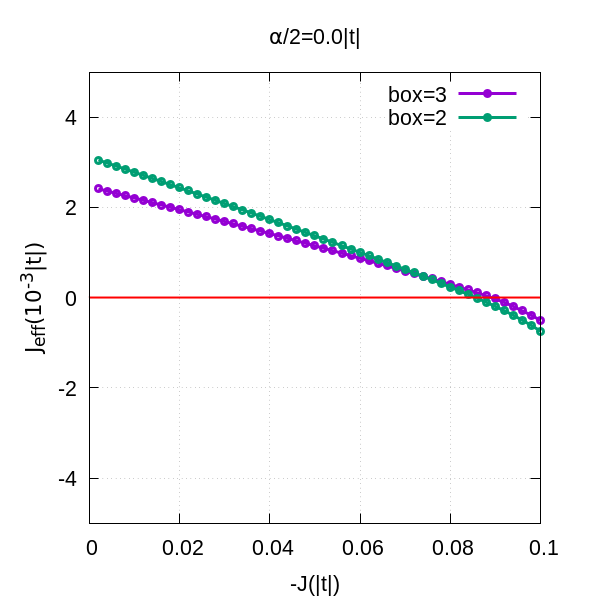
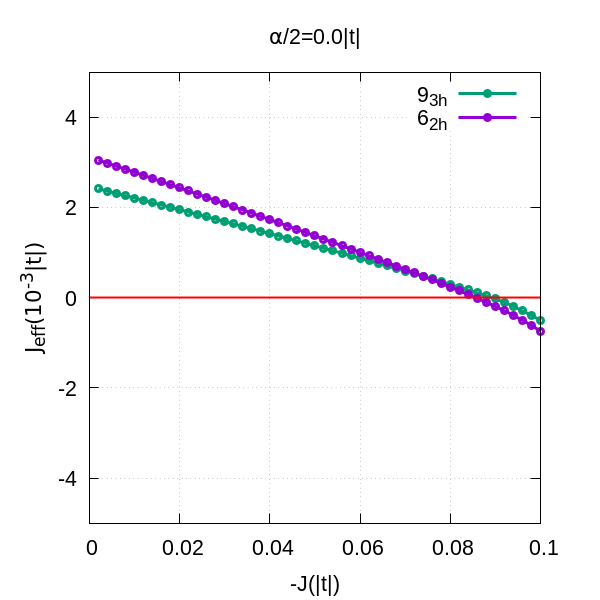
Changes from papeeria

Changed region(s): [[0.15, 0.24, 0.9, 0.57], [0.63, 0.15, 0.75, 0.24], [0.78, 0.15, 0.87, 0.21]]

diff --git a/rapport.tex b/rapport.tex
@@ -142,6 +142,7 @@
 		\thispagestyle{empty}
 	\chapter*{Introduction}
 	\setcounter{page}{1}
+	\setlength{\parskip}{-1mm}
 	\addcontentsline{toc}{chapter}{Introduction}
 	
 	Colossal magnetoresistance (CMR) is the prperty of some materials to change their
@@ -258,7 +259,7 @@
 	
 	\begin{figure}[ht]
 		\centering
-			\includegraphics[scale=0.25]{DE.png}
+			\includegraphics[scale=0.2]{DE.png}
 		\caption{\label{fig:deham} Representation of a model system showing the interatction terms used in double exchange hamiltonian. }
 	\end{figure}
 	These Hamiltonians describe a model with two valence orbitals on each
@@ -387,7 +388,7 @@
 	\section{Model space}
 	\begin{figure}[ht]
 		\centering
-			\includegraphics[scale=0.25]{boites.png}
+			\includegraphics[scale=0.2]{boites.png}
 		\caption{\label{boites}. Representation of the local ferromagnetic polarons formed by spins aligned by a single hole for 6$_{2h}$.}
 	\end{figure}
 	As discussed above, a hole aligns about three sites. That allows one to
@@ -605,11 +606,11 @@
 		\centering
 		\hspace{-2cm}
 		\begin{minipage}{0.4\textwidth}
-			\includegraphics[scale=0.35]{W_vs_J_sites_2-xrep-0.png}
+			\includegraphics[scale=0.3]{W_vs_J_sites_2-xrep-0.png}
 		\end{minipage}
 		\hspace{2cm}
 		\begin{minipage}{0.4\textwidth}
-			\includegraphics[scale=0.35]{W_vs_J_sites_3-xrep-0.png}
+			\includegraphics[scale=0.3]{W_vs_J_sites_3-xrep-0.png}
 		\end{minipage}
 		\caption{\label{fig_w69} Weight (W) as a function of $J$ for 6$_{2h}$ (left) and 9$_{3h}$ (right). }
 	\end{figure}
@@ -623,13 +624,18 @@
 	normalization of the wavefunction, the absolute weight of the model space
 	decreases. In other words, the ratio of the size of the model space vs the
 	total size of the Hilbert space goes to zero with increasing number of sites.
+	
+	\begin{figure}[h!]
+		\centering
+			\includegraphics[scale=0.22]{determinants.jpg}
+		\caption{\label{determinants}. Representation of the determinants with maximal weight on the ground state for three different values of $J$ in 6$_{2h}$.}
+	\end{figure}
 	 
 	 Initially, the weight increases with increasing magnitude of $J$ this is
 	 because for a small value of $J$ the system is completely governed by $t$
 	 which will favor the ionic determinants. Howeveer, after a maximum, the
 	 weight falls drastically as larger values of $J$ favors the
-	 antiferromagnetic couplings inside the boxes and hense the component due to spin $S=5 \slash 2$ decreases.
-	
+	 antiferromagnetic couplings inside the boxes and hense the component due to spin $S=5 \slash 2$ decreases. In order to ilustrated this figures \ref{determinants} shows the determinants with maximal weight on the ground state for three different values of $J$, in a) for $J=0.01|t|$, a very small values, the ground state is $S=5$ and the determinant having the maximal weight is all the electrons aligned and the hole in the middle of each box, as the Hückel wavefunction predicts. Then in b) for $J=0.1|t|$, an intermediate value, even if inside the boxes ferromagnetic coupling is favored the coupling between them is antiferromagnetic and the ground state is $S=0$. Finally, in c) when $J=0.2|t|$, a large value, there is no longer ferromagnetic coupling between the boxes.	
 	
 	\subsection{Variation with Repulsion}
 
@@ -637,11 +643,11 @@
 		\centering
 		\hspace{-2cm}
 		\begin{minipage}{0.4\textwidth}
-			\includegraphics[scale=0.35]{W_vs_J_sites_2-xrep-01.png}
+			\includegraphics[scale=0.3]{W_vs_J_sites_2-xrep-01.png}
 		\end{minipage}
 		\hspace{2cm}
 		\begin{minipage}{0.4\textwidth}
-			\includegraphics[scale=0.35]{W_vs_J_sites_2-xrep-225.png}
+			\includegraphics[scale=0.3]{W_vs_J_sites_2-xrep-225.png}
 		\end{minipage}
 		\caption{\label{fig_0_225} Weight (W) as a function of $J$ for $\alpha = 0 |t|$ (left) and $\alpha \slash 2 = 2.25|t|$ (right). }
 	\end{figure}
@@ -679,11 +685,11 @@
 		\centering
 		\hspace{-2cm}
 		\begin{minipage}{0.4\textwidth}
-			\includegraphics[scale=0.35]{Wmax_vs_xrep0v1.png}
+			\includegraphics[scale=0.3]{Wmax_vs_xrep0v1.png}
 		\end{minipage}
 		\hspace{2cm}
 		\begin{minipage}{0.4\textwidth}
-			\includegraphics[scale=0.35]{Wmax_vs_xrep0vn.png}
+			\includegraphics[scale=0.3]{Wmax_vs_xrep0vn.png}
 		\end{minipage}
 		\caption{\label{fig_v1n} Maximal weight (W$_{max}$) for each state as a function of repulsion calculated with two models: only considering repulsion between consecutive holes (left) and considering repulsion between all the holes as function of distance (right). }
 	\end{figure}
@@ -693,11 +699,11 @@
 		\centering
 		\hspace{-2cm}
 		\begin{minipage}{0.4\textwidth}
-			\includegraphics[scale=0.35]{J_vs_xrepv1.png}
+			\includegraphics[scale=0.3]{J_vs_xrepv1.png}
 		\end{minipage}
 		\hspace{2cm}
 		\begin{minipage}{0.4\textwidth}
-			\includegraphics[scale=0.35]{J_vs_xrepvn.png}
+			\includegraphics[scale=0.3]{J_vs_xrepvn.png}
 		\end{minipage}
 		\caption{\label{fig_jv1n} Value of $J$ for which the maximal weight is reached ($J_m$) as a function of repulsion calculated with two models: only considering repulsion between consecutive holes (left) and considering repulsion between all the holes as function of distance (right). }
 	\end{figure}
@@ -731,17 +737,17 @@
 		\centering
 		\hspace{-2cm}
 		\begin{minipage}{0.4\textwidth}
-			\includegraphics[scale=0.35]{Jeff_vs_J_sites_3-xrep-0.png}
+			\includegraphics[scale=0.3]{Jeff_vs_J_sites_3-xrep-0.png}
 		\end{minipage}
 		\hspace{2cm}
 		\begin{minipage}{0.4\textwidth}
-			\includegraphics[scale=0.35]{Jeff_vs_J_sites_3-xrep-225.png}
+			\includegraphics[scale=0.3]{Jeff_vs_J_sites_3-xrep-225.png}
 		\end{minipage}
 		\caption{\label{fig_arj} Value of $J_{eff}$ as a function of $J$ for $\alpha=0|t|$ (left) and $\alpha=2.25|t|$ (right). }
 	\end{figure}
 
 	Figure \ref{fig_arj} shows the values of $J_{eff}$ obtained by fitting the
-	effective hamiltonian to te model hamiltonian, for 6$_{2h}$ and 9$_{3h}$ and
+	effective hamiltonian to te model hamiltonian, for 6$_{2h}$ and 9$_{3h}$, and
 	for two different values of $\alpha$ in an interval in which the
 	wavefunction has a good projection. There is an interval in which $J_{eff}$
 	becomes antiferromagnetic (below the red line). As it is observed the values
@@ -756,11 +762,11 @@
 		\centering
 		\hspace{-2cm}
 		\begin{minipage}{0.4\textwidth}
-			\includegraphics[scale=0.35]{Jeff_vs_J_ar2.png}
+			\includegraphics[scale=0.3]{Jeff_vs_J_ar2.png}
 		\end{minipage}
 		\hspace{2cm}
 		\begin{minipage}{0.4\textwidth}
-			\includegraphics[scale=0.35]{Jeff_vs_J_ar3.png}
+			\includegraphics[scale=0.3]{Jeff_vs_J_ar3.png}
 		\end{minipage}
 		\caption{\label{fig_arj1} Value of $J_{eff}$ as a function of $J$ for 6$_{2h}$ (left) and 6$_{2h}$ (right). }
 	\end{figure}
@@ -769,11 +775,11 @@
 		\centering
 		\hspace{-2cm}
 		\begin{minipage}{0.4\textwidth}
-			\includegraphics[scale=0.35]{Jeff_vs_xrep_ar2.png}
+			\includegraphics[scale=0.3]{Jeff_vs_xrep_ar2.png}
 		\end{minipage}
 		\hspace{2cm}
 		\begin{minipage}{0.4\textwidth}
-			\includegraphics[scale=0.35]{Jeff_vs_xrep_ar3.png}
+			\includegraphics[scale=0.3]{Jeff_vs_xrep_ar3.png}
 		\end{minipage}
 		\caption{\label{fig_arxrep} Value of $J_{eff}$ as a function of $\alpha$ for 6$_{2h}$ (left) and 6$_{2h}$ (right). in both cases $J=0.062 |t|$ }
 	\end{figure}
@@ -817,7 +823,7 @@
 
 	\end{chapter} %{Discussion}
 	
-	\chapter*{Conclusions}
+	\chapter*{ General Conclusions}
 	\addcontentsline{toc}{chapter}{Conclusions}
 	%\end{chapter}
 	\newpage
